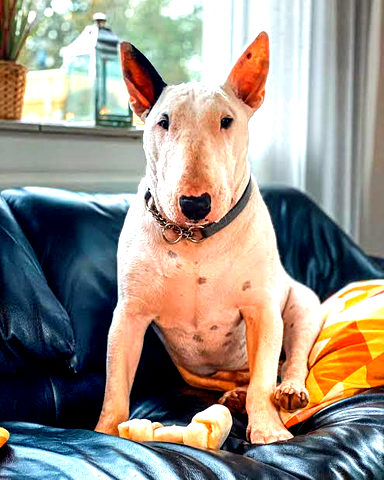
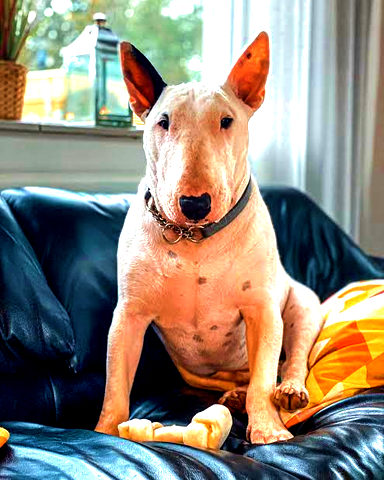
refactor(grade)!: fold vibrance into grade
grade gains `vibrance` (0..1, drivable, applied after saturation); the vibrance
effect, its example, gallery picture and tests are gone. portrait-pop and avatar
use `grade(vibrance=...)`.

Measured against the old effect (photo at 320 px and a random 64x64 picture,
vibrance 0, 0.3, 0.4, 1): max abs diff 1.2e-7, within 2 x float32 epsilon. The
cause is rounding in grade's own saturation step (grey + (x - grey) * 1), so
grade is not exactly identity at the defaults either; the "unchanged at 0" tests
use that tolerance. Both caller recipes render identical 8-bit PNGs (diff 0).

diff --git a/tests/effects/grade/test_grade.py b/tests/effects/grade/test_grade.py
@@ -1,8 +1,14 @@
 """Behaviour of the `grade` effect."""
 
+import colorsys
+
 import numpy as np
+import pytest
 
 from bullterrier_image.core import registry
+
+FLOAT32_TOLERANCE = 2 * float(np.finfo(np.float32).eps)  # 2 x float32 epsilon: what grade's rounding may move a value
+FIVE_DECIMALS = 1e-5  # the expected values in the table above are written to five decimals
 
 
 def test_grade_exposure_one_stop_doubles_brightness() -> None:
@@ -16,3 +22,97 @@ def test_grade_contrast_turns_around_its_pivot() -> None:
     np.testing.assert_allclose(pivoted[0, :, 0], [0.3, 0.5, 0.7], atol=1e-6)  # 0.3 + (v - 0.3) * 2
     default = registry.apply("grade", grey, contrast=2.0)
     np.testing.assert_allclose(default[0, :, 0], [0.1, 0.3, 0.5], atol=1e-6)  # around 0.5: 0.5 + (v - 0.5) * 2
+
+
+def chroma(picture: np.ndarray) -> np.ndarray:
+    """Strongest minus weakest channel of every pixel: the HSV chroma."""
+    return picture.max(axis=-1) - picture.min(axis=-1)
+
+
+def hsv_vibrance(picture: np.ndarray, vibrance: float) -> np.ndarray:
+    """Oracle: raise HSV saturation s to s + vibrance * s * (1 - s) with the standard-library conversion."""
+    out = np.zeros_like(picture)
+    for y in range(picture.shape[0]):
+        for x in range(picture.shape[1]):
+            h, s, v = colorsys.rgb_to_hsv(*(float(c) for c in picture[y, x]))
+            out[y, x] = colorsys.hsv_to_rgb(h, s + vibrance * s * (1 - s), v)
+    return out
+
+
+@pytest.mark.parametrize(
+    ("pixel", "vibrance", "expected"),
+    [
+        # Saturation S = (max - min) / max rises to S + vibrance * S * (1 - S) with the strongest channel kept.
+        pytest.param((0.6, 0.5, 0.4), 0.5, (0.6, 0.46667, 0.33333), id="muted: S = 1/3 rises to 0.4444"),
+        pytest.param((0.6, 0.5, 0.4), 1.0, (0.6, 0.43333, 0.26667), id="muted at the maximum: S rises to 0.5556"),
+        pytest.param((0.6, 0.5, 0.4), 0.0, (0.6, 0.5, 0.4), id="vibrance 0 changes nothing"),
+        pytest.param((1.0, 0.0, 0.0), 1.0, (1.0, 0.0, 0.0), id="a fully saturated colour has no room to rise"),
+        pytest.param((0.5, 0.5, 0.5), 1.0, (0.5, 0.5, 0.5), id="a grey stays grey"),
+        pytest.param((0.0, 0.0, 0.0), 1.0, (0.0, 0.0, 0.0), id="black stays black"),
+    ],
+)
+def test_vibrance_raises_muted_colours_by_the_documented_amount(
+    pixel: tuple[float, float, float], vibrance: float, expected: tuple[float, float, float]
+) -> None:
+    out = registry.apply("grade", np.array([[pixel]], np.float32), vibrance=vibrance)
+    np.testing.assert_allclose(out[0, 0], expected, atol=FIVE_DECIMALS)
+
+
+def test_vibrance_agrees_with_the_standard_library_hsv_conversion(photo: np.ndarray) -> None:
+    small = photo[:5, :6]
+    np.testing.assert_allclose(
+        registry.apply("grade", small, vibrance=0.7), hsv_vibrance(small, 0.7), atol=FIVE_DECIMALS
+    )
+
+
+@pytest.mark.parametrize("saturation", [2.0, 5.0])
+def test_vibrance_works_on_the_saturated_picture(saturation: float) -> None:
+    muted = np.array([[[0.6, 0.5, 0.4], [0.5, 0.55, 0.45], [0.9, 0.3, 0.2]]], np.float32)  # at 5 the last clips
+    saturated = registry.apply("grade", muted, saturation=saturation)
+    np.testing.assert_allclose(
+        registry.apply("grade", muted, saturation=saturation, vibrance=1.0),
+        hsv_vibrance(saturated, 1.0),
+        atol=FIVE_DECIMALS,
+    )
+
+
+@pytest.mark.parametrize("vibrance", [0.1, 0.5, 1.0])
+def test_vibrance_never_lowers_chroma_and_keeps_hue_and_value(vibrance: float, photo: np.ndarray) -> None:
+    base = registry.apply("grade", photo)
+    out = registry.apply("grade", photo, vibrance=vibrance)
+    assert (chroma(out) >= chroma(base) - FLOAT32_TOLERANCE).all()
+    np.testing.assert_allclose(out.max(axis=-1), base.max(axis=-1), atol=FLOAT32_TOLERANCE)
+    coloured = chroma(base) > 0.05  # hue is ill-defined and float-sensitive for near-greys
+    for before, after in zip(base[coloured][:300], out[coloured][:300], strict=True):
+        hue_before = colorsys.rgb_to_hsv(*(float(c) for c in before))[0]
+        hue_after = colorsys.rgb_to_hsv(*(float(c) for c in after))[0]
+        assert abs((hue_after - hue_before + 0.5) % 1 - 0.5) < 1e-3
+
+
+def test_vibrance_gives_muted_colours_proportionally_more_than_vivid_ones() -> None:
+    saturations = np.linspace(0.05, 0.95, 10, dtype=np.float32)
+    row = np.stack([np.ones_like(saturations), 1 - saturations, 1 - saturations], axis=-1)[None]  # tints of red
+    gain = chroma(registry.apply("grade", row, vibrance=0.8))[0] / chroma(row)[0]
+    assert (gain >= 1 - FLOAT32_TOLERANCE).all()
+    assert (np.diff(gain) < 0).all()  # the more saturated, the smaller the relative gain
+
+
+def test_more_vibrance_never_gives_less_chroma(photo: np.ndarray) -> None:
+    weaker, stronger = registry.apply("grade", photo, vibrance=0.3), registry.apply("grade", photo, vibrance=0.6)
+    assert (chroma(stronger) >= chroma(weaker) - FLOAT32_TOLERANCE).all()
+
+
+def test_vibrance_leaves_greys_unchanged() -> None:
+    ramp = np.linspace(0, 1, 11, dtype=np.float32)[None, :, None].repeat(3, axis=2)
+    np.testing.assert_allclose(registry.apply("grade", ramp, vibrance=1.0), ramp, atol=FLOAT32_TOLERANCE)
+
+
+def test_vibrance_has_nothing_to_lift_once_saturation_is_zero(photo: np.ndarray) -> None:
+    flat = registry.apply("grade", photo, saturation=0.0)
+    np.testing.assert_allclose(
+        registry.apply("grade", photo, saturation=0.0, vibrance=1.0), flat, atol=FLOAT32_TOLERANCE
+    )
+
+
+def test_the_default_leaves_a_photo_unchanged(photo: np.ndarray) -> None:
+    np.testing.assert_allclose(registry.apply("grade", photo), photo, atol=FLOAT32_TOLERANCE)

diff --git a/src/bullterrier_image/effects/grade/effect.py b/src/bullterrier_image/effects/grade/effect.py
@@ -1,4 +1,4 @@
-"""The `grade` effect: basic tone controls (exposure, contrast around a pivot, saturation)."""
+"""The `grade` effect: basic tone controls (exposure, contrast around a pivot, saturation, vibrance)."""
 
 import numpy as np
 
@@ -8,7 +8,7 @@ from bullterrier_image.ops.color import luminance
 
 
 class GradeParams(EffectParams):
-    """Basic tone controls: exposure, then contrast, then saturation."""
+    """Basic tone controls: exposure, then contrast, then saturation, then vibrance."""
 
     exposure: float = param(
         0.0,
@@ -41,16 +41,36 @@ class GradeParams(EffectParams):
         drivable=True,
         doc="Colourfulness: 1 = unchanged, 0 = grey (Rec. 709 brightness kept), above 1 more vivid.",
     )
+    vibrance: float = param(
+        0.0,
+        unit="fraction",
+        min=0,
+        max=1,
+        drivable=True,
+        doc="How far muted colours are pushed toward full saturation (0..1), after `saturation`: 0 changes nothing, 1 "
+        "raises a colour's saturation s to s + s * (1 - s), so a colour at 0.2 goes to 0.36 while one at 0.9 only "
+        "reaches 0.99. Greys and fully saturated colours stay as they are; colours are never made duller.",
+    )
 
 
 @effect(category="colour", params=GradeParams)
 def grade(rgb: np.ndarray, params: GradeParams) -> np.ndarray:
-    """Basic tone controls: `exposure` in stops, then `contrast` around `pivot`, then `saturation`.
+    """Basic tone controls: `exposure` in stops, then `contrast` around `pivot`, then `saturation`, then `vibrance`.
 
-    The result is clipped to 0..1 after the contrast (before measuring brightness for the saturation) and at the end.
+    The result is clipped to 0..1 after the contrast (before measuring brightness for the saturation), after the
+    saturation (before the vibrance) and at the end.
+
+    `vibrance` works on HSV saturation s = (max - min) / max of the gamma-encoded values. Each colour's saturation
+    becomes s + vibrance * s * (1 - s), which never exceeds 1. The strongest channel (HSV value) is kept and every
+    other channel moves away from it by the same factor, so the hue is the input's (up to float rounding) and a grey,
+    whose saturation is 0, is unchanged.
     """
     out = rgb * np.float32(2.0**params.exposure)  # a stop is a factor of 2 (photographic definition)
     out = params.pivot + (out - params.pivot) * np.float32(params.contrast)
     grey = luminance(np.clip(out, 0, 1))[..., None]
-    out = grey + (out - grey) * np.float32(params.saturation)
-    return np.clip(out, 0.0, 1.0).astype(np.float32)
+    out = np.clip(grey + (out - grey) * np.float32(params.saturation), 0.0, 1.0)
+    strongest = out.max(axis=-1, keepdims=True)
+    weakest = out.min(axis=-1, keepdims=True)
+    chroma = np.where(strongest > 0, (strongest - weakest) / np.where(strongest > 0, strongest, 1.0), 0.0)
+    spread = 1.0 + np.float32(params.vibrance) * (1.0 - chroma)  # the factor by which saturation grows
+    return np.clip(strongest - spread * (strongest - out), 0.0, 1.0).astype(np.float32)

diff --git a/docs/effects-roadmap.md b/docs/effects-roadmap.md
@@ -18,7 +18,7 @@ it becomes a new effect only when it is a new idea. Planned merges of today's ef
 
 | Effect | What it does | Example |
 | --- | --- | --- |
-| `grade` ✓ | Exposure, contrast, saturation. | `fx.grade(exposure=0.3)` |
+| `grade` ✓ | Exposure, contrast, saturation, vibrance (muted colours rise more than vivid ones). | `fx.grade(exposure=0.3, vibrance=0.5)` |
 | `gradient_map` ✓ | Recolour by brightness with any gradient. | `fx.gradient_map(stops=["#000","#f0f"])` |
 | `split_tone` ✓ | Tint shadows and highlights. | `fx.split_tone(shadow="#3a1bff")` |
 | `hue_shift` ✓ | Rotate hues, keep brightness. | `fx.hue_shift(hue=150)` |
@@ -27,7 +27,6 @@ it becomes a new effect only when it is a new idea. Planned merges of today's ef
 | `auto_levels` ✓ | Stretch to the full tonal range. | `fx.auto_levels(clip=0.005)` |
 | `equalize` ✓ | Adaptive histogram equalisation (CLAHE-style). | `fx.equalize(tiles=8, limit=2.0)` |
 | `white_balance` ✓ | Fix colour cast by temperature/tint or a grey point. | `fx.white_balance(temperature=-0.2)` |
-| `vibrance` ✓ | Boost muted colours more than vivid ones. | `fx.vibrance(amount=0.5)` |
 | `selective_color` ✓ | Shift hue/saturation/lightness of one colour range. | `fx.selective_color(hue=30, saturation=0.6)` |
 | `color_balance` ✓ | Separate RGB shifts for shadows, mids, highlights. | `fx.color_balance(highlights_red=0.05, highlights_blue=-0.05)` |
 | `channel_mixer` ✓ | 3x3 matrix between channels. | `fx.channel_mixer(red_from_red=0, red_from_green=1, green_from_red=1, green_from_green=0)` |
@@ -213,8 +212,8 @@ of the picture, so a look does not depend on the resolution. `Framing.documentat
 Any number an effect marks `(drivable)` can vary across the picture by a field (`docs/design-decisions.md`, "A field
 varies a parameter"): `radius = { by = "far", start = 0, end = 12 }` on a `gaussian_blur` step. Drivable today: the
 radius of `gaussian_blur`, `bloom`; `motion_blur`'s `length`; the amounts of `bloom`,
-`vibrance`, `grain`, `clarity`, `sharpen`, `chromatic_aberration`, `displace`, `vignette`;
-`grade`'s `exposure`, `contrast`, `saturation`; `levels`' `output_black`; `white_balance`'s `temperature` and `tint`;
+`grain`, `clarity`, `sharpen`, `chromatic_aberration`, `displace`, `vignette`;
+`grade`'s `exposure`, `contrast`, `saturation`, `vibrance`; `levels`' `output_black`; `white_balance`'s `temperature` and `tint`;
 `hue_shift`'s `hue`; `fog`'s `density`. More follow when a look needs them; the rule is that the result changes smoothly with the number.
 
 ## Depth and light from geometry
